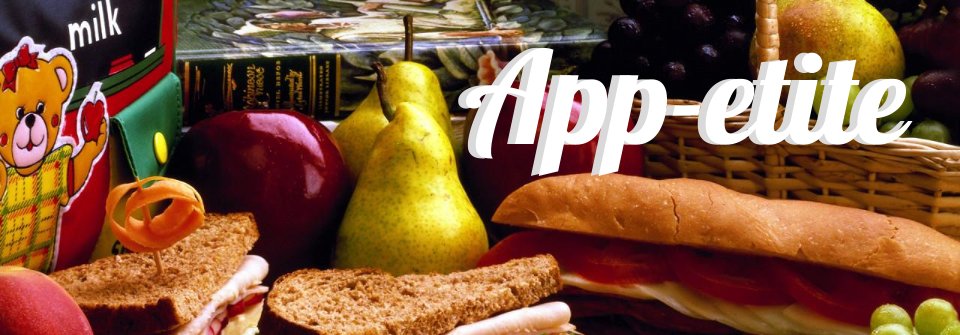
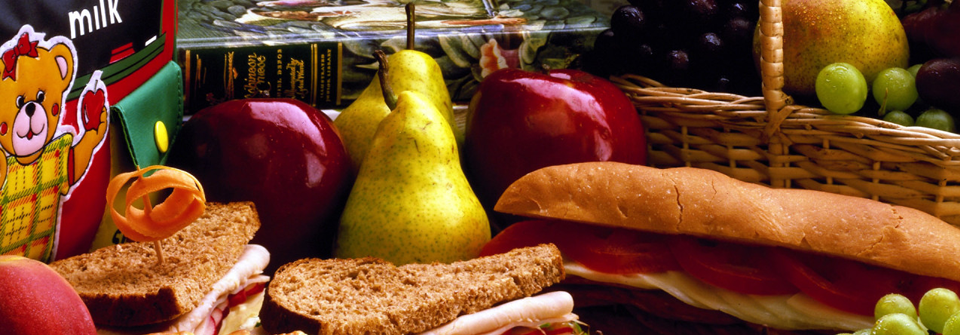
style changes

diff --git a/app_etite/app/assets/stylesheets/application.css b/app_etite/app/assets/stylesheets/application.css
@@ -15,19 +15,23 @@
  */
 
 /*Header Settings*/
- .container{
+/* .container{
     width: 100%;
     background-size: cover;
     padding: 0;
-}
+}*/
 
-div.jumbotron {
+.jumbotron {
   background-color: #413839;
+  padding-bottom: 0;
 }
 
 .titleimage {
+    background-image: url('../app_etite.png');
     border: .3em solid white;
-    width: 70%;
+    width: 75%;
+    background-color: #413839;
+    margin-left: 13%;
 }
 
 a {
@@ -37,6 +41,10 @@ a {
 a:hover {
     color: #4C4646;
     background-color: #FFF8C6;
+}
+
+#topNav {
+    margin-left: 27%;
 }
 
 /*Body settings*/
